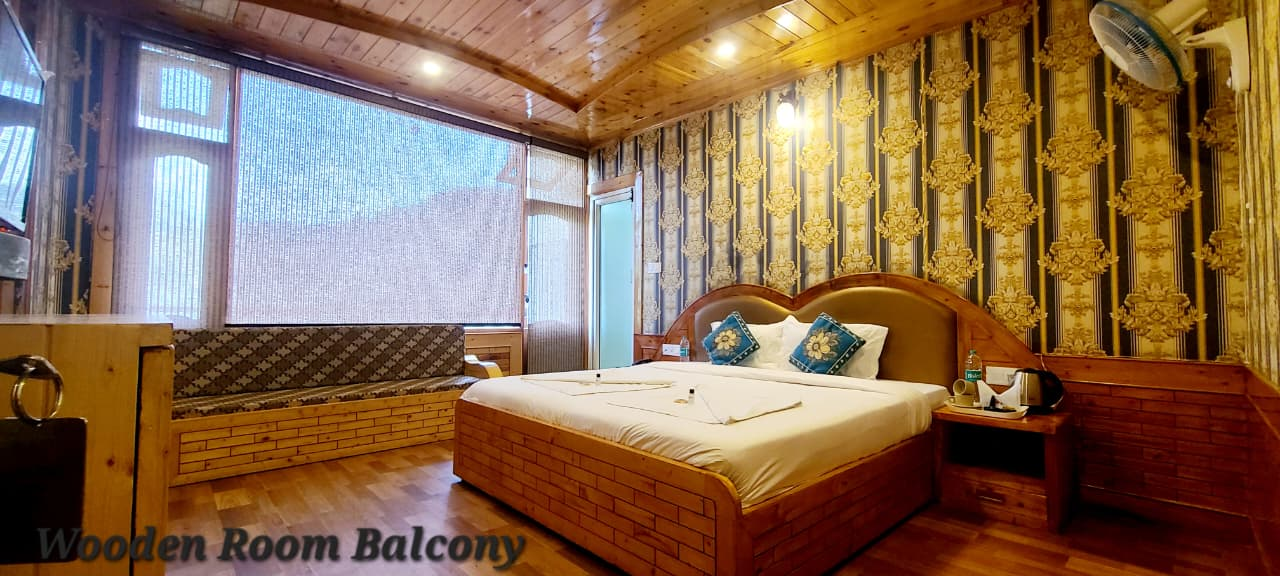
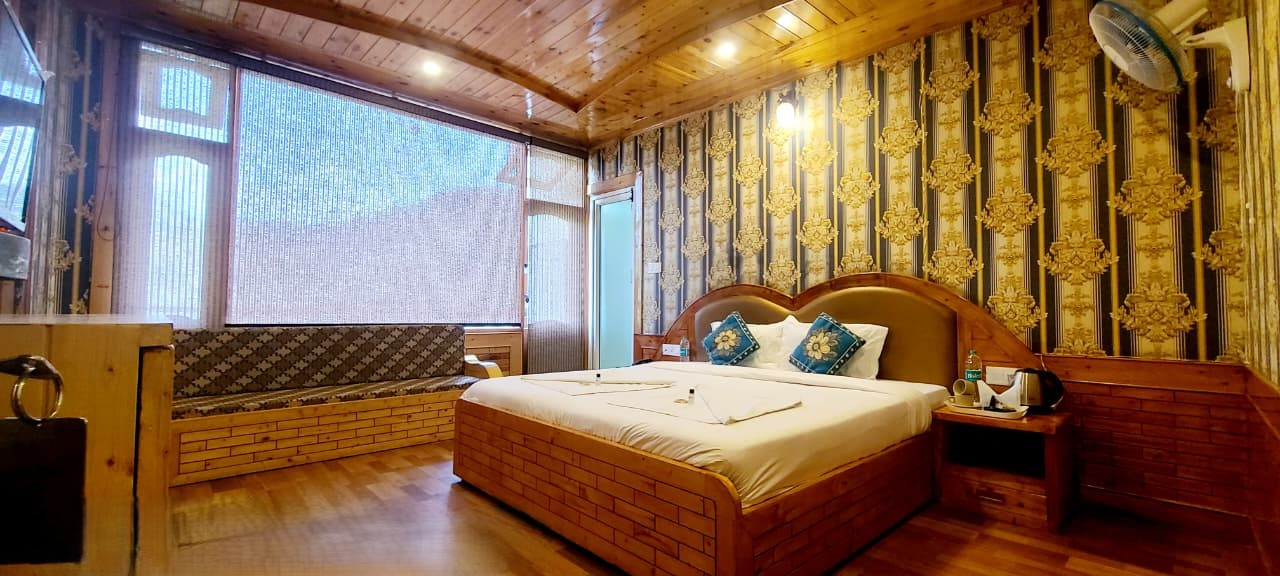
Refactor code structure for improved readability and maintainability

Changed region(s): [[0.0312, 0.875, 0.4375, 1.0]]

diff --git a/src/lib/data.ts b/src/lib/data.ts
@@ -1,5 +1,11 @@
 import room2Image from '../assets/Rishikesh-hotel/room2.jpeg';
 import rishikeshViewImage from '../assets/Rishikesh-hotel/Rishikesh-view.png';
+import room8Image from '../assets/Shimla-hotel/room2.jpeg'
+import shimlaAttraction from '../assets/Shimla-hotel/Shimla-attractions1.png'
+import rishikeshCampViewImage from '../assets/Rishikesh-Camping-Resorts/hotel-extier9.jpeg'
+import rishikeshCampViewImage2 from '../assets/Rishikesh-Camping-Resorts/RishikeshCamp-attractions4.png'
+
+
 
 export const WHATSAPP = 'https://wa.me/[phone redacted]?text=' + encodeURIComponent('Hello GhumoG Team,\nI would like to know more about your hotel stays and travel packages.');
 export const PHONE = '[phone redacted]';
@@ -107,7 +113,8 @@ export const HOTELS: Hotel[] = [
     location: 'Shoghi, Shimla',
     price: 2800,
     rating: 4.9,
-    image: firstImg(shimlaRashalGallery, FALLBACK_IMG),
+    image: shimlaAttraction,
+    cardImage: room8Image,
     description: 'A homely mountain stay in Shoghi, Shimla — surrounded by cedar forests with warm hospitality, homely food on request, and a peaceful atmosphere that feels like your own Himalayan home.',
     tagline: 'Pahadon Ki God Mein Aapka Apna Ghar',
     highlights: ['Homely Hospitality', 'Homely Food on Request', 'Peaceful Stay', 'Wooden Rooms', 'Bonfire on Request', 'Free Parking'],
@@ -127,7 +134,8 @@ export const HOTELS: Hotel[] = [
     location: 'Shivpuri, Badrinath Road, Rishikesh',
     price: 1800,
     rating: 4.7,
-    image: firstImg(rishikeshCampingGallery, FALLBACK_IMG),
+    image: rishikeshCampViewImage2,
+    cardImage : rishikeshCampViewImage,
     description: 'An outdoor camping experience on the banks of the Ganges — comfortable tents, a swimming pool, nature views and bonfire nights under the stars at Shivpuri, Rishikesh.',
     tagline: 'Come as a Guest, Leave as Family',
     highlights: ['Camping Experience', 'Swimming Pool', 'Nature Views', 'Outdoor Stay', 'Comfortable Rooms', 'Bonfire on Request'],